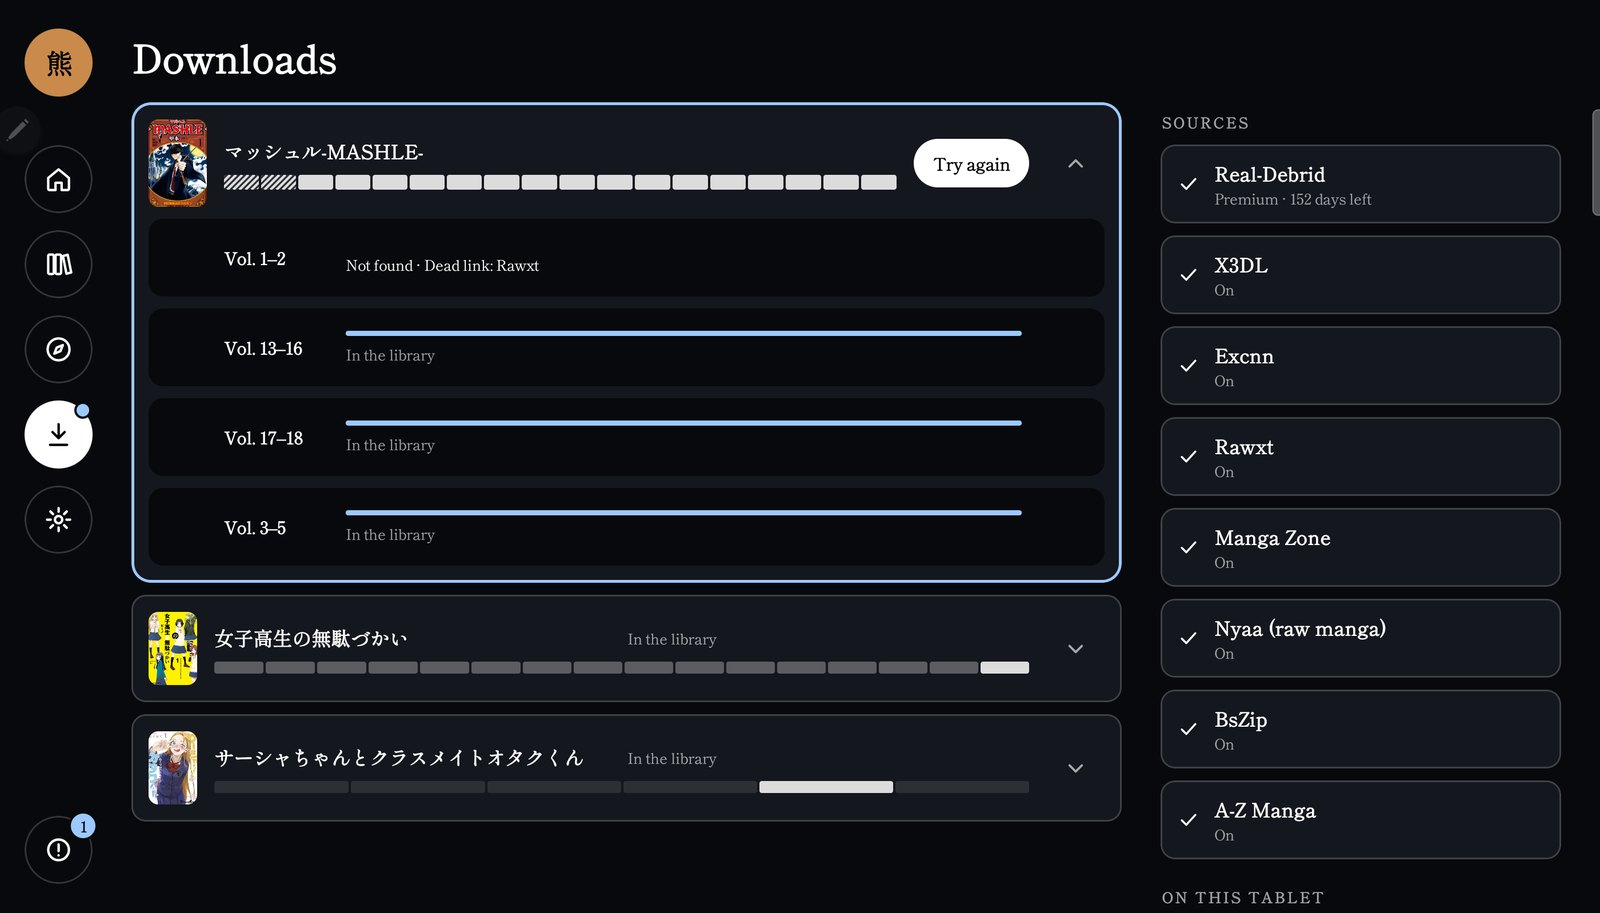
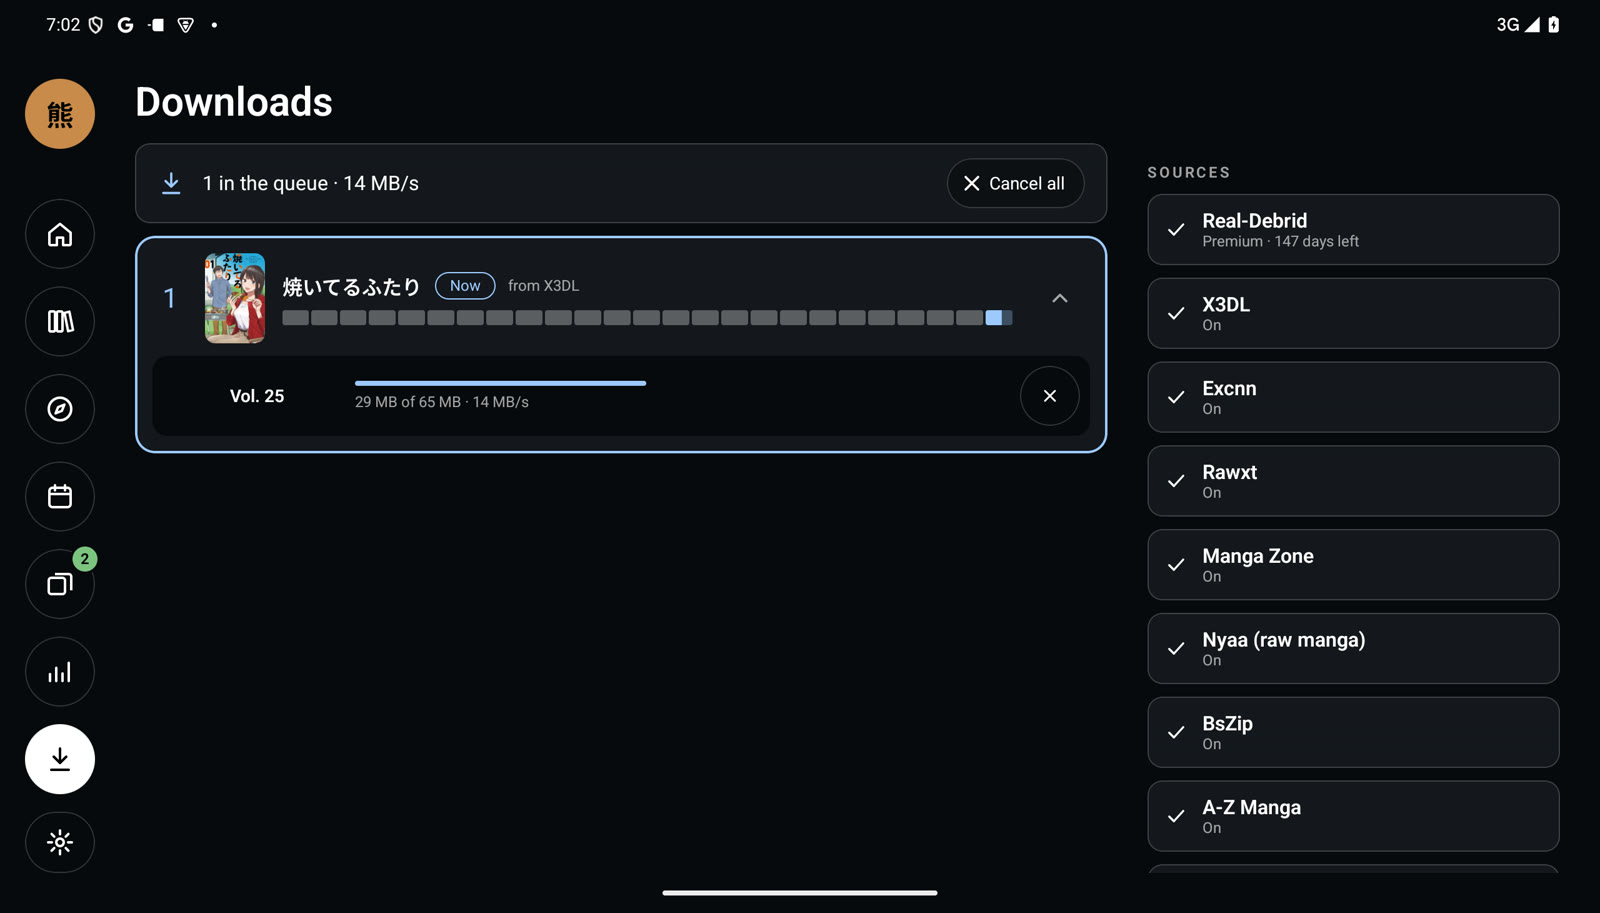
README: new Downloads screenshot, a Stats screenshot

diff --git a/README.md b/README.md
@@ -86,6 +86,10 @@ Three ways to find what to read next, based on what you finished:
   <img src="./.github/readme-images/glass/settings-backup.jpg" alt="Settings: backup and restore at the top of Library and storage" width="49%" />
 </p>
 
+<p align="center">
+  <img src="./.github/readme-images/glass/stats.jpg" alt="Stats: reading time, characters read, speed, streak and new cards, with the reading time of the last 14 days" width="60%" />
+</p>
+
 - **Reader**: a top bar (volume, single / double pages, OCR, page bookmark) and a slim page bar that says where you are. Settings, statistics, volumes and the long-press menu open in a side panel.
 - **Stats** on the tablet rail: reading time, characters read, speed, streak and cards mined, by day, week, month, year or all time.
 - **Backup** in Settings › Library and storage: back up now, restore, how often and where.
